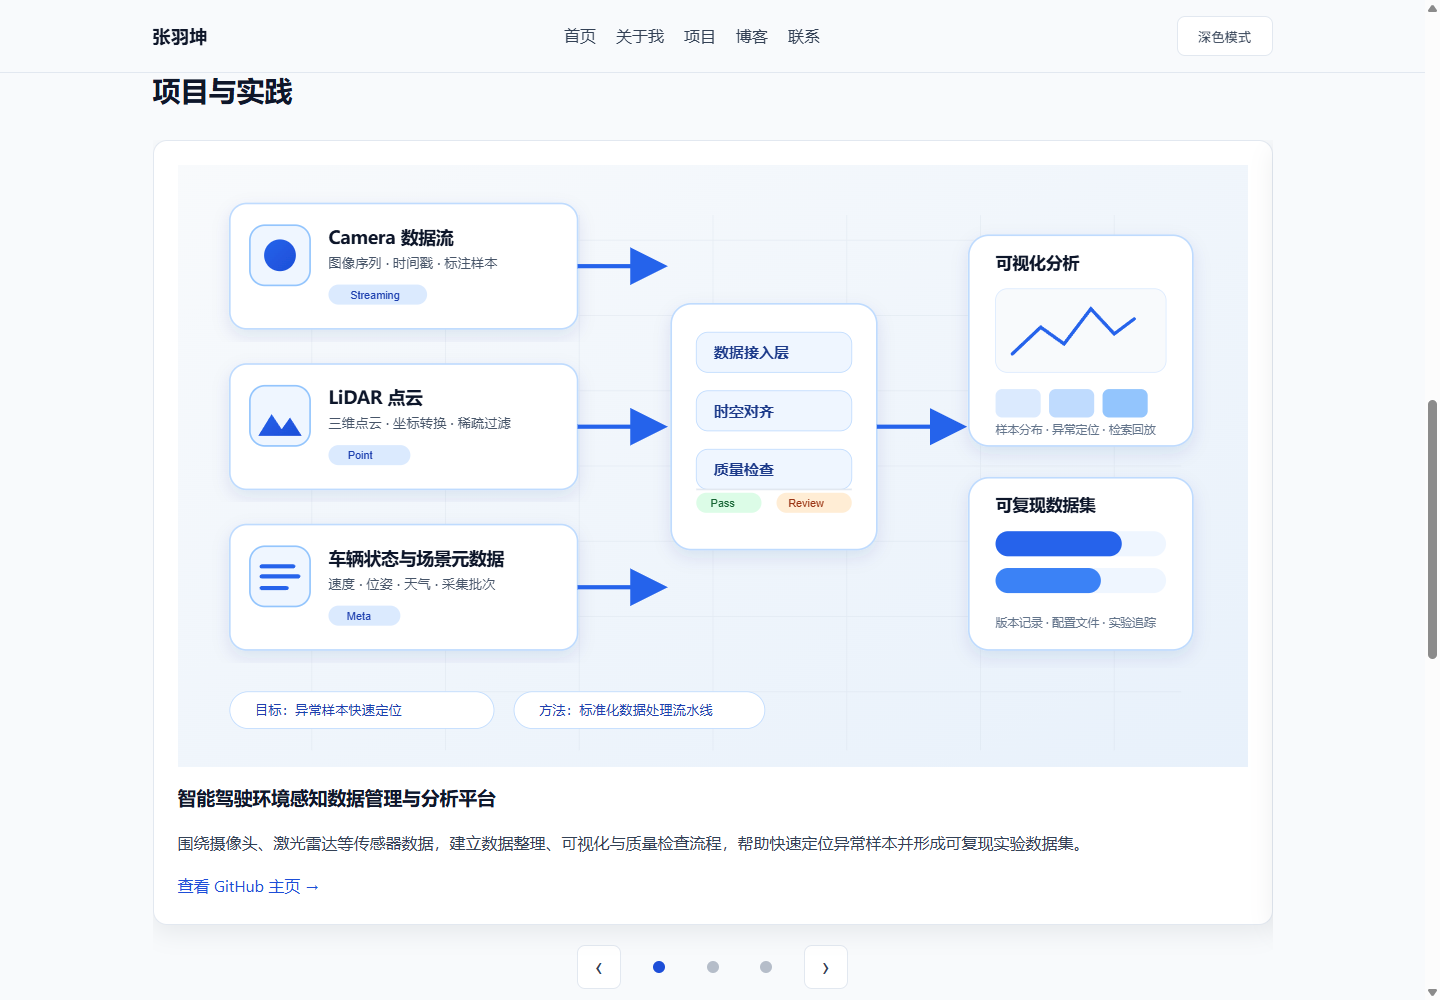
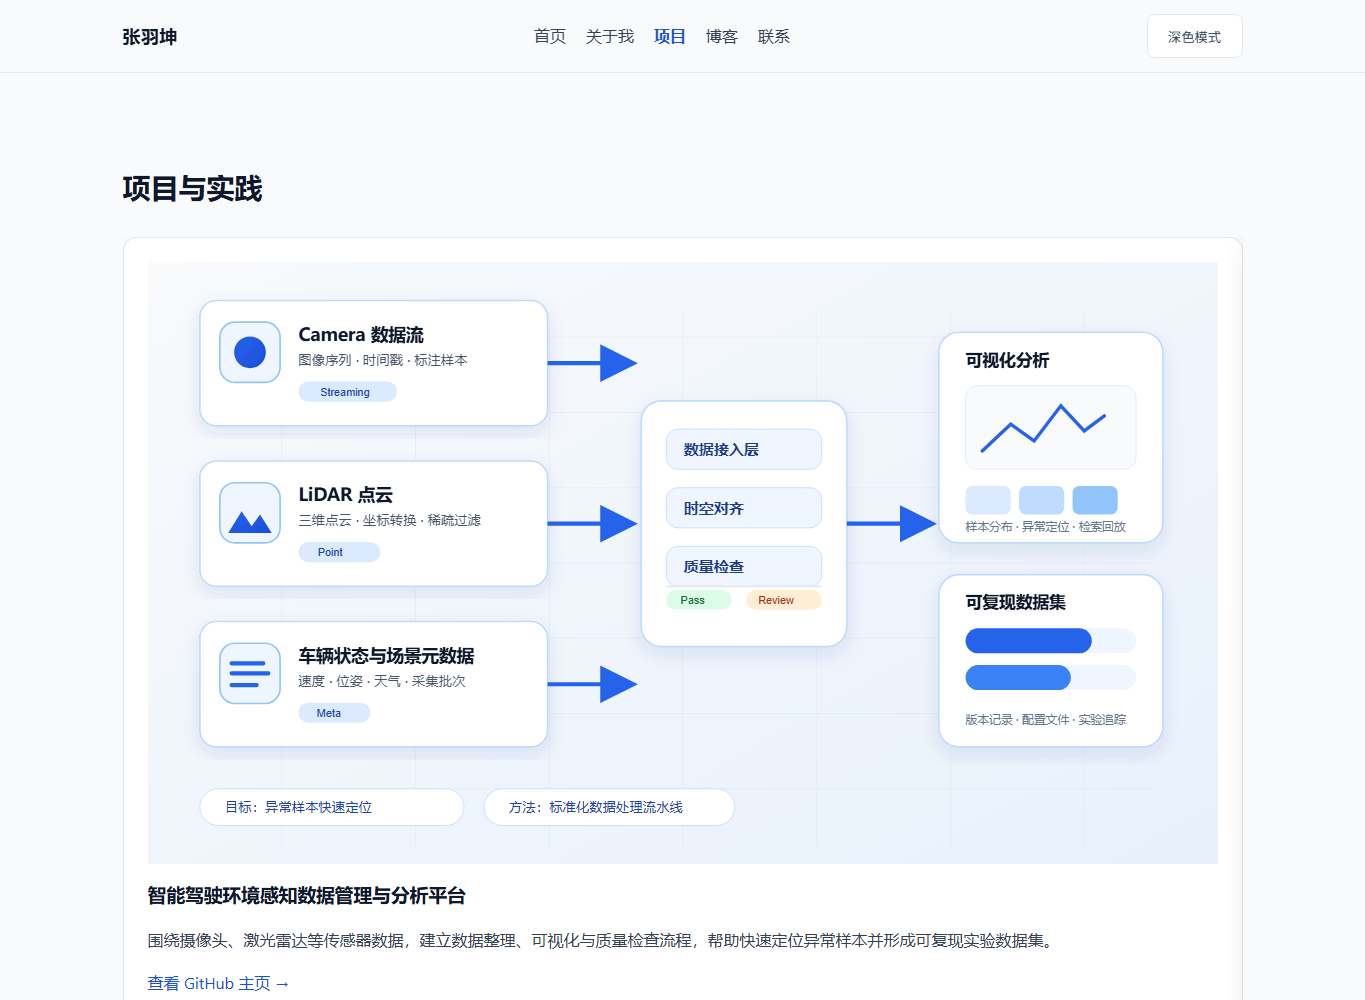
Update desktop screenshot evidence

diff --git a/实验报告-AI协作-调试记录.md b/实验报告-AI协作-调试记录.md
@@ -175,20 +175,22 @@ Personal Homepage/
 
 ## 1.9 截图与验证证据
 
-当前 `screenshots/` 目录已有以下证据：
+2026-11-05 已重新生成以下桌面端与交互截图：
 
-| 文件 | 说明 |
-|---|---|
-| `screenshots/desktop-home.png` | 桌面端首屏 |
-| `screenshots/desktop-projects.png` | 桌面端项目区 |
-| `screenshots/tablet-layout.png` | 平板端布局 |
-| `screenshots/mobile-home.png` | 移动端首屏 |
-| `screenshots/mobile-menu-open.png` | 移动端菜单展开 |
-| `screenshots/form-error.png` | 表单错误提示 |
-| `screenshots/form-success.png` | 表单提交成功 |
-| `screenshots/theme-dark.png` | 深色主题 |
+| 文件 | 说明 | 状态 |
+|---|---|---|
+| `screenshots/desktop-home.png` | 桌面端首屏 | 已更新 |
+| `screenshots/desktop-projects.png` | 桌面端项目区 | 已更新 |
+| `screenshots/carousel-slide-2.png` | 项目轮播第二张 | 已更新 |
+| `screenshots/form-error.png` | 表单错误提示 | 已更新 |
+| `screenshots/form-success.png` | 表单提交成功 | 已更新 |
+| `screenshots/theme-dark.png` | 桌面端深色主题 | 已更新 |
+| `screenshots/print-preview.png` | 打印预览 | 已更新 |
+| `screenshots/tablet-layout.png` | 平板端布局 | 待用户提供最终截图 |
+| `screenshots/mobile-home.png` | 移动端首屏 | 待用户提供最终截图 |
+| `screenshots/mobile-menu-open.png` | 移动端菜单展开 | 待用户提供最终截图 |
 
-其中部分截图生成于 `project-fusion.svg` 和 `project-planning.svg` 最新修复之前。提交前建议重新截取项目轮播第二、第三张，以及最终版桌面、平板、移动端和深色模式截图。
+桌面端截图使用无头 Chrome 以 1365×1000 视口生成；打印预览来自无头 Chrome 生成的 PDF 第一页。平板端和移动端将补充真实设备截图，避免仅使用浏览器模拟结果。
 
 ## 1.10 验收结论
 
@@ -213,7 +215,7 @@ Personal Homepage/
 4. 三个项目卡片当前均链接到 GitHub 主页，后续可为每个项目创建独立仓库或说明页。
 5. `localStorage` 在极少数隐私模式或本机限制环境中可能不可用，后续可增加安全读写兜底。
 6. 移动菜单已支持 `Esc` 关闭，后续可进一步增强焦点循环管理。
-7. 需要在最终提交前重新生成最新项目区截图。
+7. 桌面端与交互截图已更新；平板端和移动端最终设备截图待补充。
 
 ---
 

diff --git a/README.md b/README.md
@@ -54,16 +54,18 @@ Personal Homepage/
 
 ## 验收截图
 
-`screenshots/` 目录中已包含：
+`screenshots/` 目录中的桌面端与交互截图已于 2026-11-05 更新：
 
 - `desktop-home.png`：桌面端首屏
 - `desktop-projects.png`：桌面端项目区
-- `tablet-layout.png`：平板端布局
-- `mobile-home.png`：移动端首屏
-- `mobile-menu-open.png`：移动端汉堡菜单展开状态
+- `carousel-slide-2.png`：项目轮播第二张
 - `form-error.png`：表单错误提示
 - `form-success.png`：表单提交成功
-- `theme-dark.png`：深色主题
+- `theme-dark.png`：桌面端深色主题
+- `print-preview.png`：打印预览
+- `tablet-layout.png`：平板端布局（待替换为最终设备截图）
+- `mobile-home.png`：移动端首屏（待替换为最终设备截图）
+- `mobile-menu-open.png`：移动端汉堡菜单展开状态（待替换为最终设备截图）
 
 ## 验收检查
 
